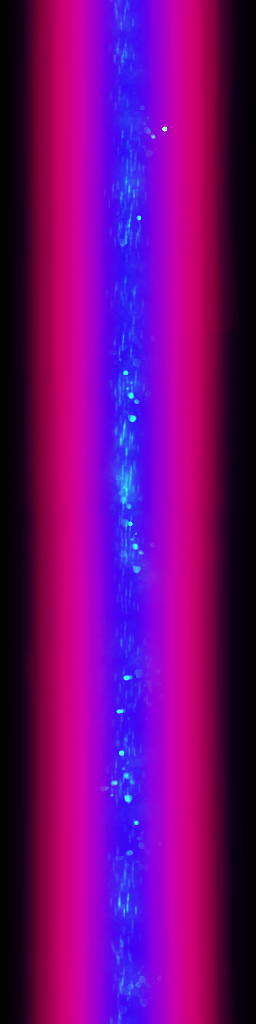
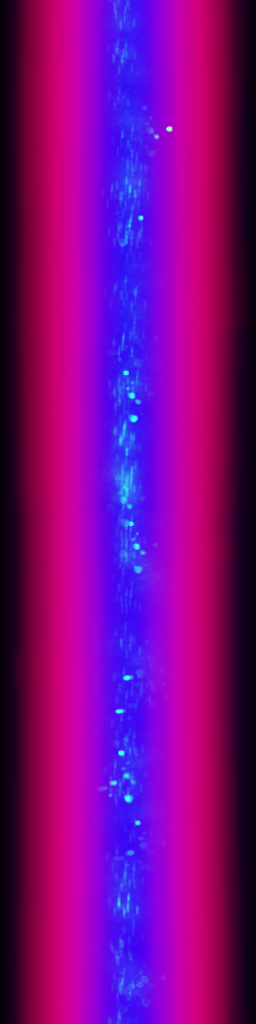
lane wear decal for all segment lanes

diff --git a/src/opengl/objects.cpp b/src/opengl/objects.cpp
@@ -5,20 +5,23 @@ namespace ogl {
 
 // TODO: naming?
 struct Mesher {
-	EntityRenders& entity_renders;
-	NetworkRender& network_render;
-	DecalRenderer&   decal_render;
-	ClippingRenderer& clip_render;
-	App            & app;
-	Textures       & textures;
+	EntityRenders&     entity_renders;
+	NetworkRender&     network_render;
+	DecalRenderer&     decal_render;
+	CurvedDecalRender& curved_decal_render;
+	ClippingRenderer&  clip_render;
+	App&               app;
+	Textures&          textures;
 
-	Mesher (EntityRenders& entity_renderers,
-	        NetworkRender& network_renderer,
-	        DecalRenderer& decal_renderer,
-	        ClippingRenderer& clip_render,
-	        App            & app,
-			Textures       & textures):
-		entity_renders{entity_renderers}, network_render{network_renderer}, decal_render{decal_renderer},
+	Mesher (EntityRenders&     entity_renderers,
+	        NetworkRender&     network_renderer,
+	        DecalRenderer&     decal_renderer,
+	        CurvedDecalRender& curved_decal_render,
+	        ClippingRenderer&  clip_render,
+	        App&               app,
+			Textures&          textures):
+		entity_renders{entity_renderers}, network_render{network_renderer},
+		decal_render{decal_renderer}, curved_decal_render{curved_decal_render},
 		clip_render{clip_render}, app{app}, textures{textures} {}
 	
 
@@ -33,7 +36,7 @@ struct Mesher {
 	std::vector<ClippingRenderer::Instance> clippings;
 
 	std::vector<DecalRenderer::Instance>    decals;
-	std::vector<BezierDecalInstance>        bez_decals;
+	std::vector<BezierDecalInstance>        curved_decals;
 	
 	void reserve () {
 		buildings      .reserve(4096);
@@ -43,7 +46,7 @@ struct Mesher {
 		lights         .reserve(4096);
 		clippings      .reserve(512);
 		decals         .reserve(4096);
-		bez_decals     .reserve(4096);
+		curved_decals  .reserve(4096);
 	}
 	void upload () {
 		ZoneScoped;
@@ -56,9 +59,10 @@ struct Mesher {
 
 		entity_renders.lights.update_instances(lights);
 		
-		network_render.upload(network_mesh);
-		decal_render  .upload(decals);
-		clip_render   .upload(clippings);
+		network_render     .upload(network_mesh);
+		decal_render       .upload(decals);
+		curved_decal_render.upload(curved_decals);
+		clip_render        .upload(clippings);
 	}
 
 	void _push_light (float3x4 const& matrix, PointLight& light) {
@@ -235,8 +239,11 @@ struct Mesher {
 		extrude(sR1 , sR2b, curb_tex_tiling);
 		extrude(sR2 , sR3 );
 
-		for (auto& lane : seg.asset->lanes) {
-			//bez_decals.push_back()
+		for (auto lane : seg.all_lanes()) {
+			auto bez = lane._bezier();
+			float width = 3.5f; //lane.get_asset().width;
+			int tex_id = textures.bindless_textures["misc/road_wear"];
+			curved_decals.push_back(BezierDecalInstance::from_bezier_portion(bez, float2(0,1), float2(width, 1), 1, tex_id));
 		}
 		
 		for (auto& line : seg.asset->line_markings) {
@@ -351,13 +358,13 @@ struct Mesher {
 				clippings.push_back(clip);
 			}
 
-			for (laneid_t id=0; id<seg->num_lanes(); ++id) {
-				auto seg_lane = network::SegLane{ seg.get(), id };
-				auto& lane = seg->lanes[id];
-				auto& lane_asset = seg_lane.get_asset();
+			for (auto lane : seg->all_lanes()) {
+				auto& lane_obj = lane.get();
+				auto& lane_asset = lane.get_asset();
+				
+				// TODO: This code is stale, needs to be reworked once segments can curve at the latest!
 
-				auto lbez = seg_lane._bezier();
-				// TODO: this will be a bezier => this is bezier but used wrong FIX it!
+				auto lbez = lane._bezier();
 				float3 forw = normalizesafe(lbez.d - lbez.a);
 				float3 right = rotate90_right(forw);
 				//float3 right = float3(rotate90(-forw), 0);
@@ -369,7 +376,7 @@ struct Mesher {
 					float3 pos = lbez.d;
 					pos -= forw * size.y*0.75f;
 
-					auto filename = textures.turn_arrows[(int)lane.allowed_turns - 1];
+					auto filename = textures.turn_arrows[(int)lane_obj.allowed_turns - 1];
 					int tex_id = textures.bindless_textures[filename];
 
 					DecalRenderer::Instance decal;
@@ -382,7 +389,8 @@ struct Mesher {
 					decals.push_back(decal);
 				}
 				
-				auto stop_line = [&] (float3 base_pos, float l, float r, int dir, bool type) {
+				auto stop_line = [&] (float3 base_pos, float l, float r, int dir) {
+					bool type = lane_obj.yield;
 					int tex_id = textures.bindless_textures[type ? "misc/shark_teeth" : "misc/line"];
 					
 					float width = type ? stopline_width*1.5f : stopline_width;
@@ -405,13 +413,13 @@ struct Mesher {
 					float l = lane_asset.shift - lane_asset.width*0.5f;
 					float r = lane_asset.shift + lane_asset.width*0.5f;
 
-					stop_line(seg->pos_b, l, r, 0, lane.yield);
+					stop_line(seg->pos_b, l, r, 0);
 				}
 				else {
-					float l = lane_asset.shift - lane_asset.width*0.5f;
-					float r = lane_asset.shift + lane_asset.width*0.5f;
+					float l = -lane_asset.shift - lane_asset.width*0.5f;
+					float r = -lane_asset.shift + lane_asset.width*0.5f;
 
-					stop_line(seg->pos_a, l, r, 1, lane.yield);
+					stop_line(seg->pos_a, l, r, 1);
 				}
 			}
 		}
@@ -458,7 +466,7 @@ struct Mesher {
 };
 
 void ObjectRender::upload_static_instances (Textures& texs, App& app) {
-	Mesher mesher{ entities, networks, decals, clippings, app, texs };
+	Mesher mesher{ entities, networks, decals, curved_decals, clippings, app, texs };
 	mesher.remesh(app);
 }
 

diff --git a/src/network.hpp b/src/network.hpp
@@ -351,7 +351,7 @@ struct Node {
 		return { pos, _radius, lrgb(0.04f, 0.04f, 1) };
 	}
 
-	Bezier3 calc_curve (Segment* seg0, Segment* seg1, float shift0=0, float shift1=0);
+	Bezier3 calc_curve (Segment* seg0, Segment* seg1, float2 shiftXZ_0=0, float2 shiftXZ_1=0);
 	Bezier3 calc_curve (SegLane& in, SegLane& out);
 };
 
@@ -385,7 +385,7 @@ struct Segment { // better name? Keep Path and call path Route?
 	Bezier3 bezier () {
 		return Bezier3{ pos_a, control_a(), control_b(), pos_b };
 	}
-	Bezier3 _bezier_shifted (float shift);
+	Bezier3 _bezier_shifted (float2 shiftXZ);
 
 	float _length = 0;
 
@@ -420,7 +420,7 @@ struct Segment { // better name? Keep Path and call path Route?
 		float3 forw;
 		float3 right;
 	};
-	EndInfo get_end_info (LaneDir dir, float shift=0) {
+	EndInfo get_end_info (LaneDir dir, float2 shiftXZ=0) {
 		EndInfo i;
 		if (dir == LaneDir::FORWARD) {
 			i.pos = pos_b;
@@ -431,11 +431,12 @@ struct Segment { // better name? Keep Path and call path Route?
 			i.forw = -tangent_a();
 		}
 		i.right = rotate90_right(i.forw);
-		i.pos += i.right * shift;
+		i.pos += i.right * shiftXZ.x;
+		i.pos += float3(0, 0, shiftXZ.y);
 		return i;
 	}
-	EndInfo get_end_info (Node* node, float shift=0) {
-		return get_end_info(get_dir_to_node(node), shift);
+	EndInfo get_end_info (Node* node, float2 shiftXZ=0) {
+		return get_end_info(get_dir_to_node(node), shiftXZ);
 	}
 
 	// I despise iterators so much... I just want zero-cost generator functions....
@@ -493,6 +494,9 @@ struct Segment { // better name? Keep Path and call path Route?
 	LanesRange out_lanes (Node* node) {
 		return lanes_in_dir(get_dir_from_node(node));
 	}
+	LanesRange all_lanes () {
+		return { this, 0, num_lanes() };
+	}
 
 	void update_cached () {
 		lanes.resize(asset->lanes.size());
@@ -510,28 +514,28 @@ inline LaneVehicles& SegLane::vehicles () {
 	return seg->vehicles.lanes[lane];
 }
 
-inline Bezier3 Segment::_bezier_shifted (float shift) {
+inline Bezier3 Segment::_bezier_shifted (float2 shiftXZ) {
 	Bezier3 bez = bezier();
-	float3 r0 = rotate90_right(tangent_a());
+	float3 r0 = rotate90_right(tangent_a()); // This probably shouldn't include Z!
 	float3 r1 = rotate90_right(-tangent_b());
-	bez.a += r0 * shift;
-	bez.b += r0 * shift;
-	bez.c += r1 * shift;
-	bez.d += r1 * shift;
+	bez.a += r0 * shiftXZ.x + float3(0,0,shiftXZ.y);
+	bez.b += r0 * shiftXZ.x + float3(0,0,shiftXZ.y);
+	bez.c += r1 * shiftXZ.x + float3(0,0,shiftXZ.y);
+	bez.d += r1 * shiftXZ.x + float3(0,0,shiftXZ.y);
 	return bez;
 }
 // This math is dodgy because technically you can't offset a bezier by it's normal!
 // TODO: implement curved segments and test this further!, perhaps a simple rule works good enough
 inline Bezier3 SegLane::_bezier () {
 	float shift = get_asset().shift;
-	auto bez = seg->_bezier_shifted(shift);
+	auto bez = seg->_bezier_shifted(float2(shift, ROAD_Z));
 	if (get_asset().direction == LaneDir::BACKWARD)
 		bez = bez.reverse();
 	return bez;
 }
-inline Bezier3 Node::calc_curve (Segment* seg0, Segment* seg1, float shift0, float shift1) {
-	auto i0 = seg0->get_end_info(this, shift0);
-	auto i1 = seg1->get_end_info(this, shift1);
+inline Bezier3 Node::calc_curve (Segment* seg0, Segment* seg1, float2 shiftXZ_0, float2 shiftXZ_1) {
+	auto i0 = seg0->get_end_info(this, shiftXZ_0);
+	auto i1 = seg1->get_end_info(this, shiftXZ_1);
 
 	float3 ctrl_in, ctrl_out;
 	float2 point;
@@ -566,7 +570,7 @@ inline Bezier3 Node::calc_curve (SegLane& in, SegLane& out) {
 	float shift0 = a0.direction == LaneDir::FORWARD ? a0.shift : -a0.shift;
 	float shift1 = a1.direction == LaneDir::FORWARD ? -a1.shift : a1.shift;
 
-	return calc_curve(in.seg, out.seg, shift0, shift1);
+	return calc_curve(in.seg, out.seg, float2(shift0, ROAD_Z), float2(shift1, ROAD_Z));
 }
 
 // max lanes/segment and max segments per node == 256

diff --git a/src/opengl/render_passes.hpp b/src/opengl/render_passes.hpp
@@ -755,7 +755,7 @@ struct CurvedDecals {
 		upload_buffer(GL_ARRAY_BUFFER, vbo.instances, beziers, usage);
 	}
 
-	void draw (Shader* shad, StateManager& state, bool allow_wireframe=true) {
+	void draw (Shader* shad, StateManager& state, bool allow_wireframe=false) {
 		PipelineState s;
 		if (!(state.wireframe && allow_wireframe)) { // draw normal way for wireframe
 			// depth test with DEPTH_BEHIND, causing backfaces that insersect with gbuffer to be drawn
@@ -782,25 +782,26 @@ struct CurvedDecals {
 	}
 };
 
-//struct CurvedDecalRender {
-//	Shader* shad  = g_shaders.compile_geometry("decals_curved");
-//
-//	CurvedDecals beziers;
-//
-//	void render (StateManager& state, Gbuffer& gbuf, App& app, Textures& texs) {
-//		ZoneScoped;
-//		OGL_TRACE("OverlayRender");
-//		glUseProgram(shad->prog);
-//
-//		state.bind_textures(shad, {
-//			{ "gbuf_depth", gbuf.depth, gbuf.sampler }, // allowed to read depth because we are not writing to it
-//			{ "road_wear", *texs.road_wear, texs.sampler_normal },
-//		});
-//
-//		beziers.upload(app.overlay.beziers, GL_STREAM_DRAW);
-//		beziers.draw(state);
-//	}
-//};
+struct CurvedDecalRender {
+	Shader* shad  = g_shaders.compile_geometry("decals_curved");
+
+	CurvedDecals beziers;
+
+	void upload (std::vector<BezierDecalInstance>& decals) {
+		beziers.upload(decals, GL_STATIC_DRAW);
+	}
+	void render (StateManager& state, Gbuffer& gbuf) {
+		ZoneScoped;
+		OGL_TRACE("CurvedDecalRender");
+		glUseProgram(shad->prog);
+
+		state.bind_textures(shad, {
+			{ "gbuf_depth", gbuf.depth, gbuf.sampler }, // allowed to read depth because we are not writing to it
+		});
+
+		beziers.draw(shad, state, true);
+	}
+};
 struct OverlayRender {
 	Shader* shad = g_shaders.compile_geometry("overlay");
 
@@ -813,7 +814,6 @@ struct OverlayRender {
 
 		state.bind_textures(shad, {
 			{ "gbuf_depth", gbuf.depth, gbuf.sampler }, // allowed to read depth because we are not writing to it
-			{ "road_wear", *texs.road_wear, texs.sampler_normal },
 		});
 
 		int pattern_base_texid = texs.bindless_textures["misc/patterns/solid"];

diff --git a/src/app.hpp b/src/app.hpp
@@ -365,6 +365,7 @@ struct BezierBuilder {
 		if (ImGui::Button("+")) {
 			beziers.push_back(Object::create_at_screen_center(view));
 		}
+		ImGui::SameLine();
 		if (ImGui::Button("-") && !beziers.empty())
 			beziers.pop_back();
 
@@ -376,10 +377,18 @@ struct BezierBuilder {
 		for (auto it = beziers.begin(); it != beziers.end(); ++it) {
 			auto& obj = *it;
 
+			float3 old_a = obj.bez.a;
+			float3 old_d = obj.bez.d;
+
 			bool  sel =  draggable(I, view, &obj.bez.a, 1);
 			sel = sel || draggable(I, view, &obj.bez.b, 1);
 			sel = sel || draggable(I, view, &obj.bez.c, 1);
 			sel = sel || draggable(I, view, &obj.bez.d, 1);
+			
+			// move b,c along with a,b
+			obj.bez.b += obj.bez.a - old_a;
+			obj.bez.c += obj.bez.d - old_d;
+
 
 			if (sel)
 				obj.bez.dbg_draw(128, lrgba(1,0,0,0.25f));

diff --git a/src/opengl/textures.hpp b/src/opengl/textures.hpp
@@ -298,7 +298,6 @@ struct Textures {
 	Texture2D* terrain_diffuse = nullptr;
 
 	Texture2D* cracks = nullptr;
-	Texture2D* road_wear = nullptr;
 	
 	// TODO: fix this, automatically add .norm and also just encode these in the assets?
 	std::string_view asphalt        = "ground/pebbled_asphalt";
@@ -367,7 +366,6 @@ struct Textures {
 		grid      = bindless_textures.get_gl_tex("misc/grid2", 0);
 		terrain_diffuse = bindless_textures.get_gl_tex("ground/Rock_Moss", 0);
 		cracks    = bindless_textures.get_gl_tex("misc/cracks", 0);
-		road_wear = bindless_textures.get_gl_tex("misc/road_wear", 0);
 	}
 
 	Textures () {

diff --git a/src/game_camera.hpp b/src/game_camera.hpp
@@ -207,7 +207,7 @@ struct CameraTrack {
 
 			// smoothly lerp from free camera to tracking target for smoothing_duration seconds
 			// NOTE: camera movement overridden entirely if CameraTrack::update is called after camera::update
-			cam.orbit_pos = lerp(cam.orbit_pos, pos_target, smoothing_t);
+			cam.orbit_pos = lerp(cam.orbit_pos, pos_target, smoothing_t); // TODO: framereate dependent!!!
 			smoothing_t = min(smoothing_t + dt / smoothing_duration, 1.0f);
 
 			prev_pos = pos;

diff --git a/src/opengl/ogl_render.cpp b/src/opengl/ogl_render.cpp
@@ -186,6 +186,7 @@ public:
 
 			objects.networks.render(state, textures);
 			objects.decals.render(state, passes.gbuf, textures);
+			objects.curved_decals.render(state, passes.gbuf);
 
 			overlay.render(state, passes.gbuf, app, textures);
 

diff --git a/src/opengl/objects.hpp b/src/opengl/objects.hpp
@@ -461,6 +461,7 @@ struct ObjectRender {
 	NetworkRender networks;
 
 	DecalRenderer decals;
+	CurvedDecalRender curved_decals;
 	
 	ClippingRenderer clippings;
 
